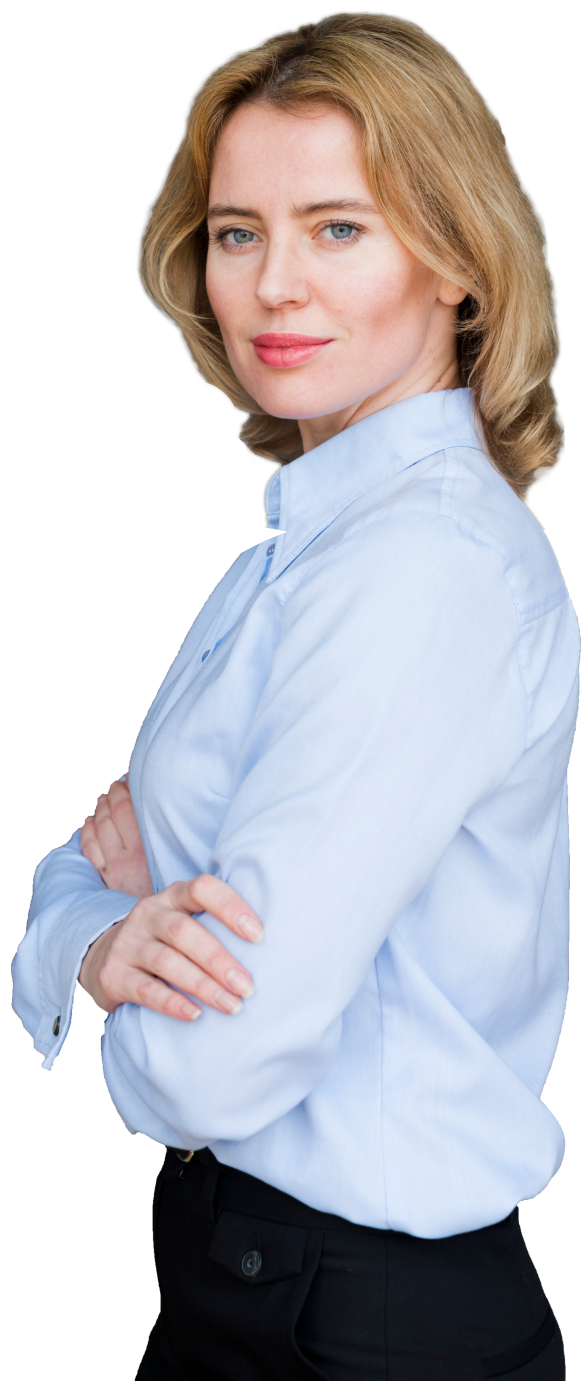
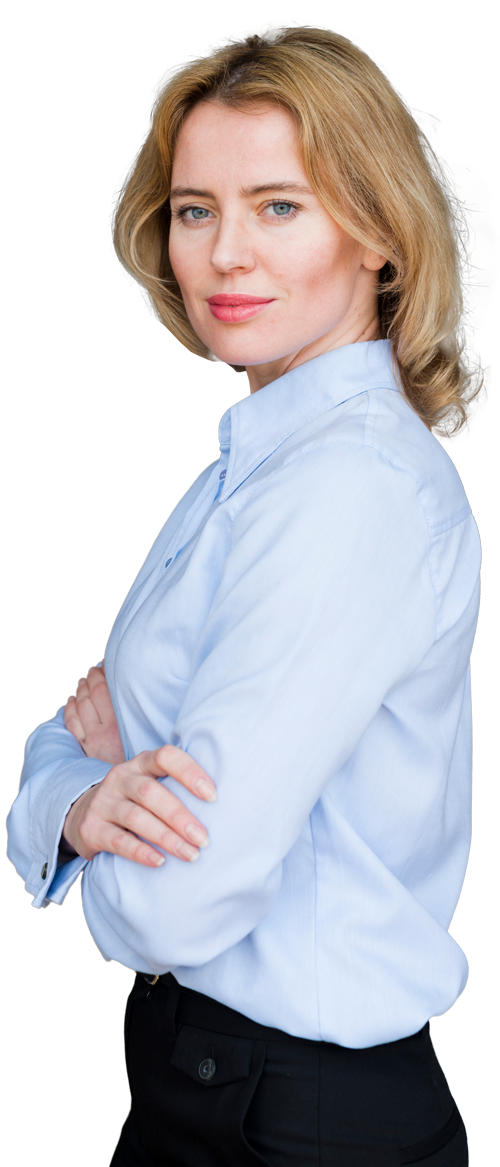
mission bugfix

diff --git a/components/Mission/Content.js b/components/Mission/Content.js
@@ -2,8 +2,11 @@ import { useTranslation } from "next-i18next";
 import { Container, Row, Col } from "react-bootstrap";
 import Title from "../ui/Title";
 
+import classes from "./#Mission.module.scss";
+
 import Image from "next/image";
 import womenPic from "../../public/img/mission-woman.png";
+// import womenPic from "../../public/img/mission-woman-2.png";
 const Content = () => {
   const { t } = useTranslation("mission");
   return (
@@ -12,8 +15,8 @@ const Content = () => {
         <Row className="mb-5">
           <Title locale="mission" text="pageTitle" hr={true} />
         </Row>
-        <Row className="relative overflow-visible	">
-          <Col md="7">
+        <Row className="relative">
+          <Col xs="12" md="7">
             {/* background */}
             <Row className="mb-5">
               <Col xs="12">
@@ -47,16 +50,16 @@ const Content = () => {
               </Col>
             </Row>
           </Col>
-          <Col md="5" className="relative">
-            <div className="sticky z-1 top-10 h-[calc(100vh-2rem)] overflow-hidden">
+          <Col md="5" className={`${classes.colContainer} desktop-layout`}>
+            <div className={classes.colContainer__image}>
               <Image
                 src={womenPic}
                 alt="business woman"
-                className="img-fluid"
+                className="img-fluid "
                 placeholder="blur"
               />
+              {/* <span className={classes.colContainer__shape} /> */}
             </div>
-            <div class="w-[78.25rem] h-[78.25rem] rounded-[78.25rem] bg-lipstick absolute top-10 z-0 overflow-visible!important"></div>
           </Col>
         </Row>
         {/* milestones */}

diff --git a/components/Mission/#Mission.module.scss b/components/Mission/#Mission.module.scss
@@ -1,0 +1,38 @@
+@import "../../styles/variables";
+
+.colContainer {
+  position: relative;
+
+  &__image {
+    overflow: hidden;
+    position: sticky;
+    z-index: 1;
+    top: 150px;
+    @include breakpoint(md) {
+      top: 320px;
+      height: calc(100vh - 20rem);
+    }
+    @include breakpoint(lg) {
+      top: 200px;
+      height: calc(100vh - 10rem);
+    }
+    @include breakpoint(xl) {
+      top: 150px;
+      height: calc(100vh - 2rem);
+    }
+  }
+
+  //   &__shape {
+  //     overflow: hidden;
+  //     position: absolute;
+  //     width: 50rem;
+  //     height: 50rem;
+  //     background-color: $Lipstick;
+  //     border-radius: 50%;
+  //     z-index: 0;
+  //     top: 150px;
+
+  //     left: 50%;
+  //     transform: translateX(-20%);
+  //   }
+}

diff --git a/styles/_variables.scss b/styles/_variables.scss
@@ -74,6 +74,8 @@ $Charcoal: #222528;
 @media (max-width: 767px) {
   .desktop-layout {
     display: none;
+    position: relative;
+    top: auto;
   }
 }
 
